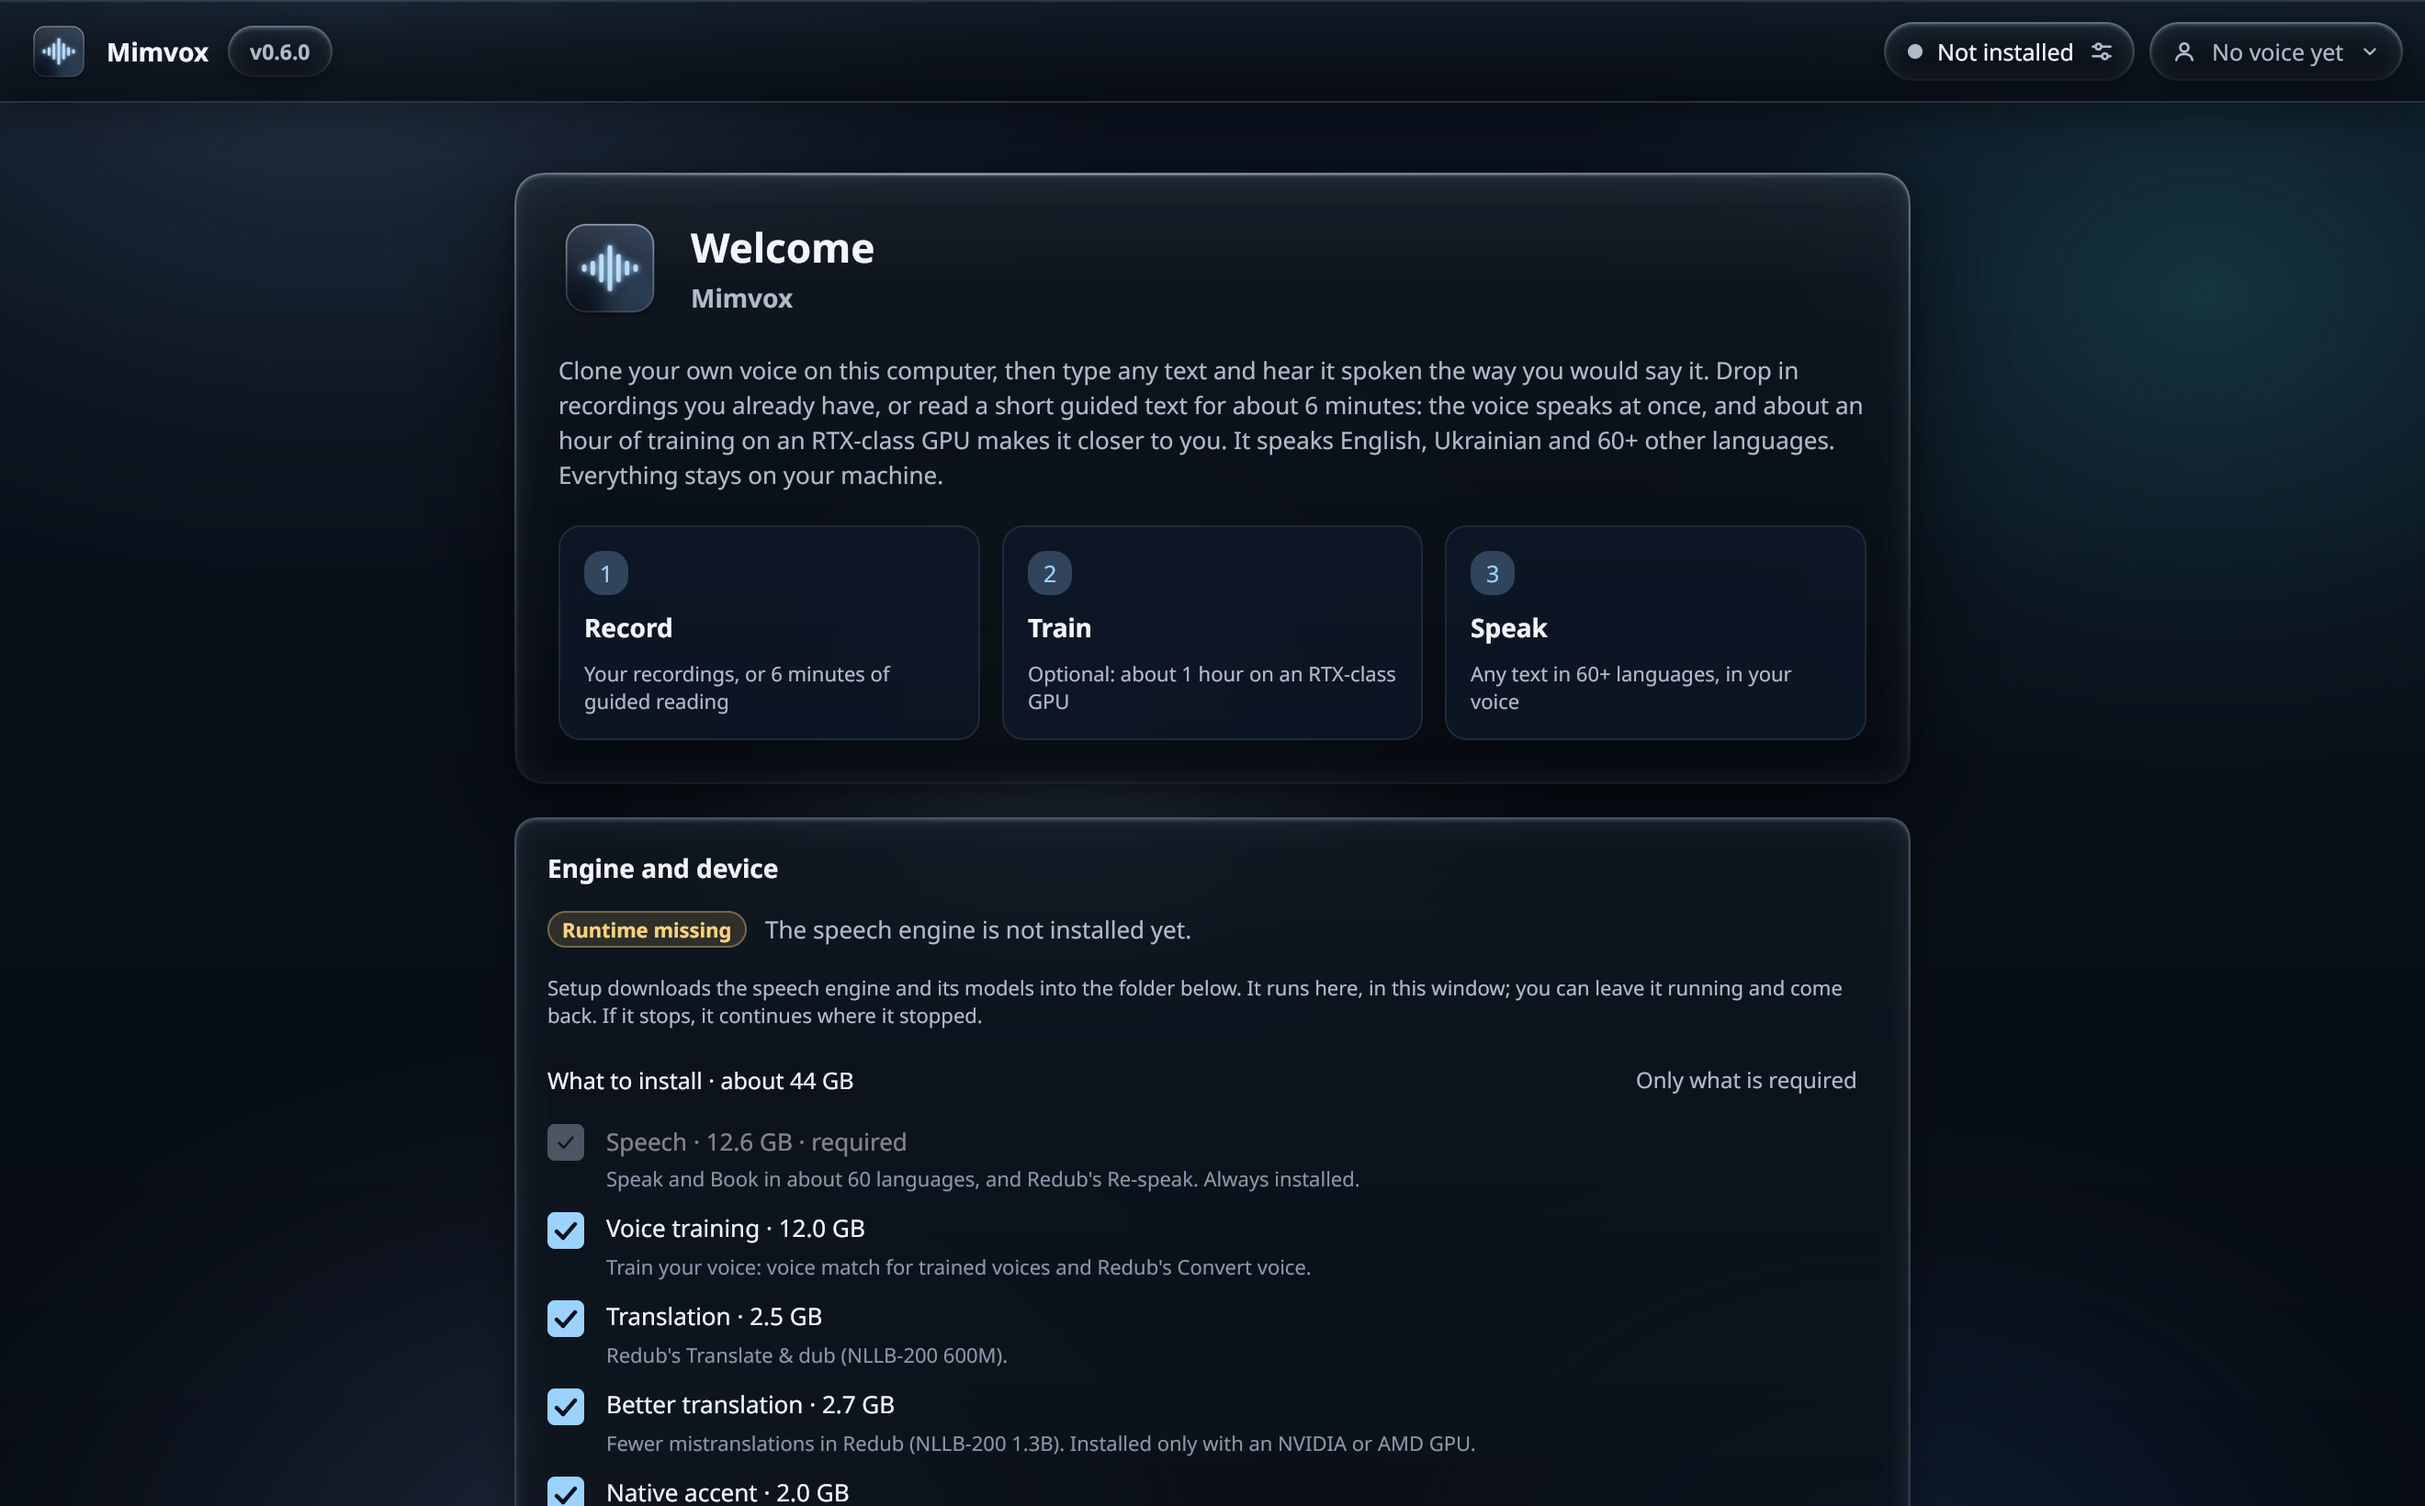
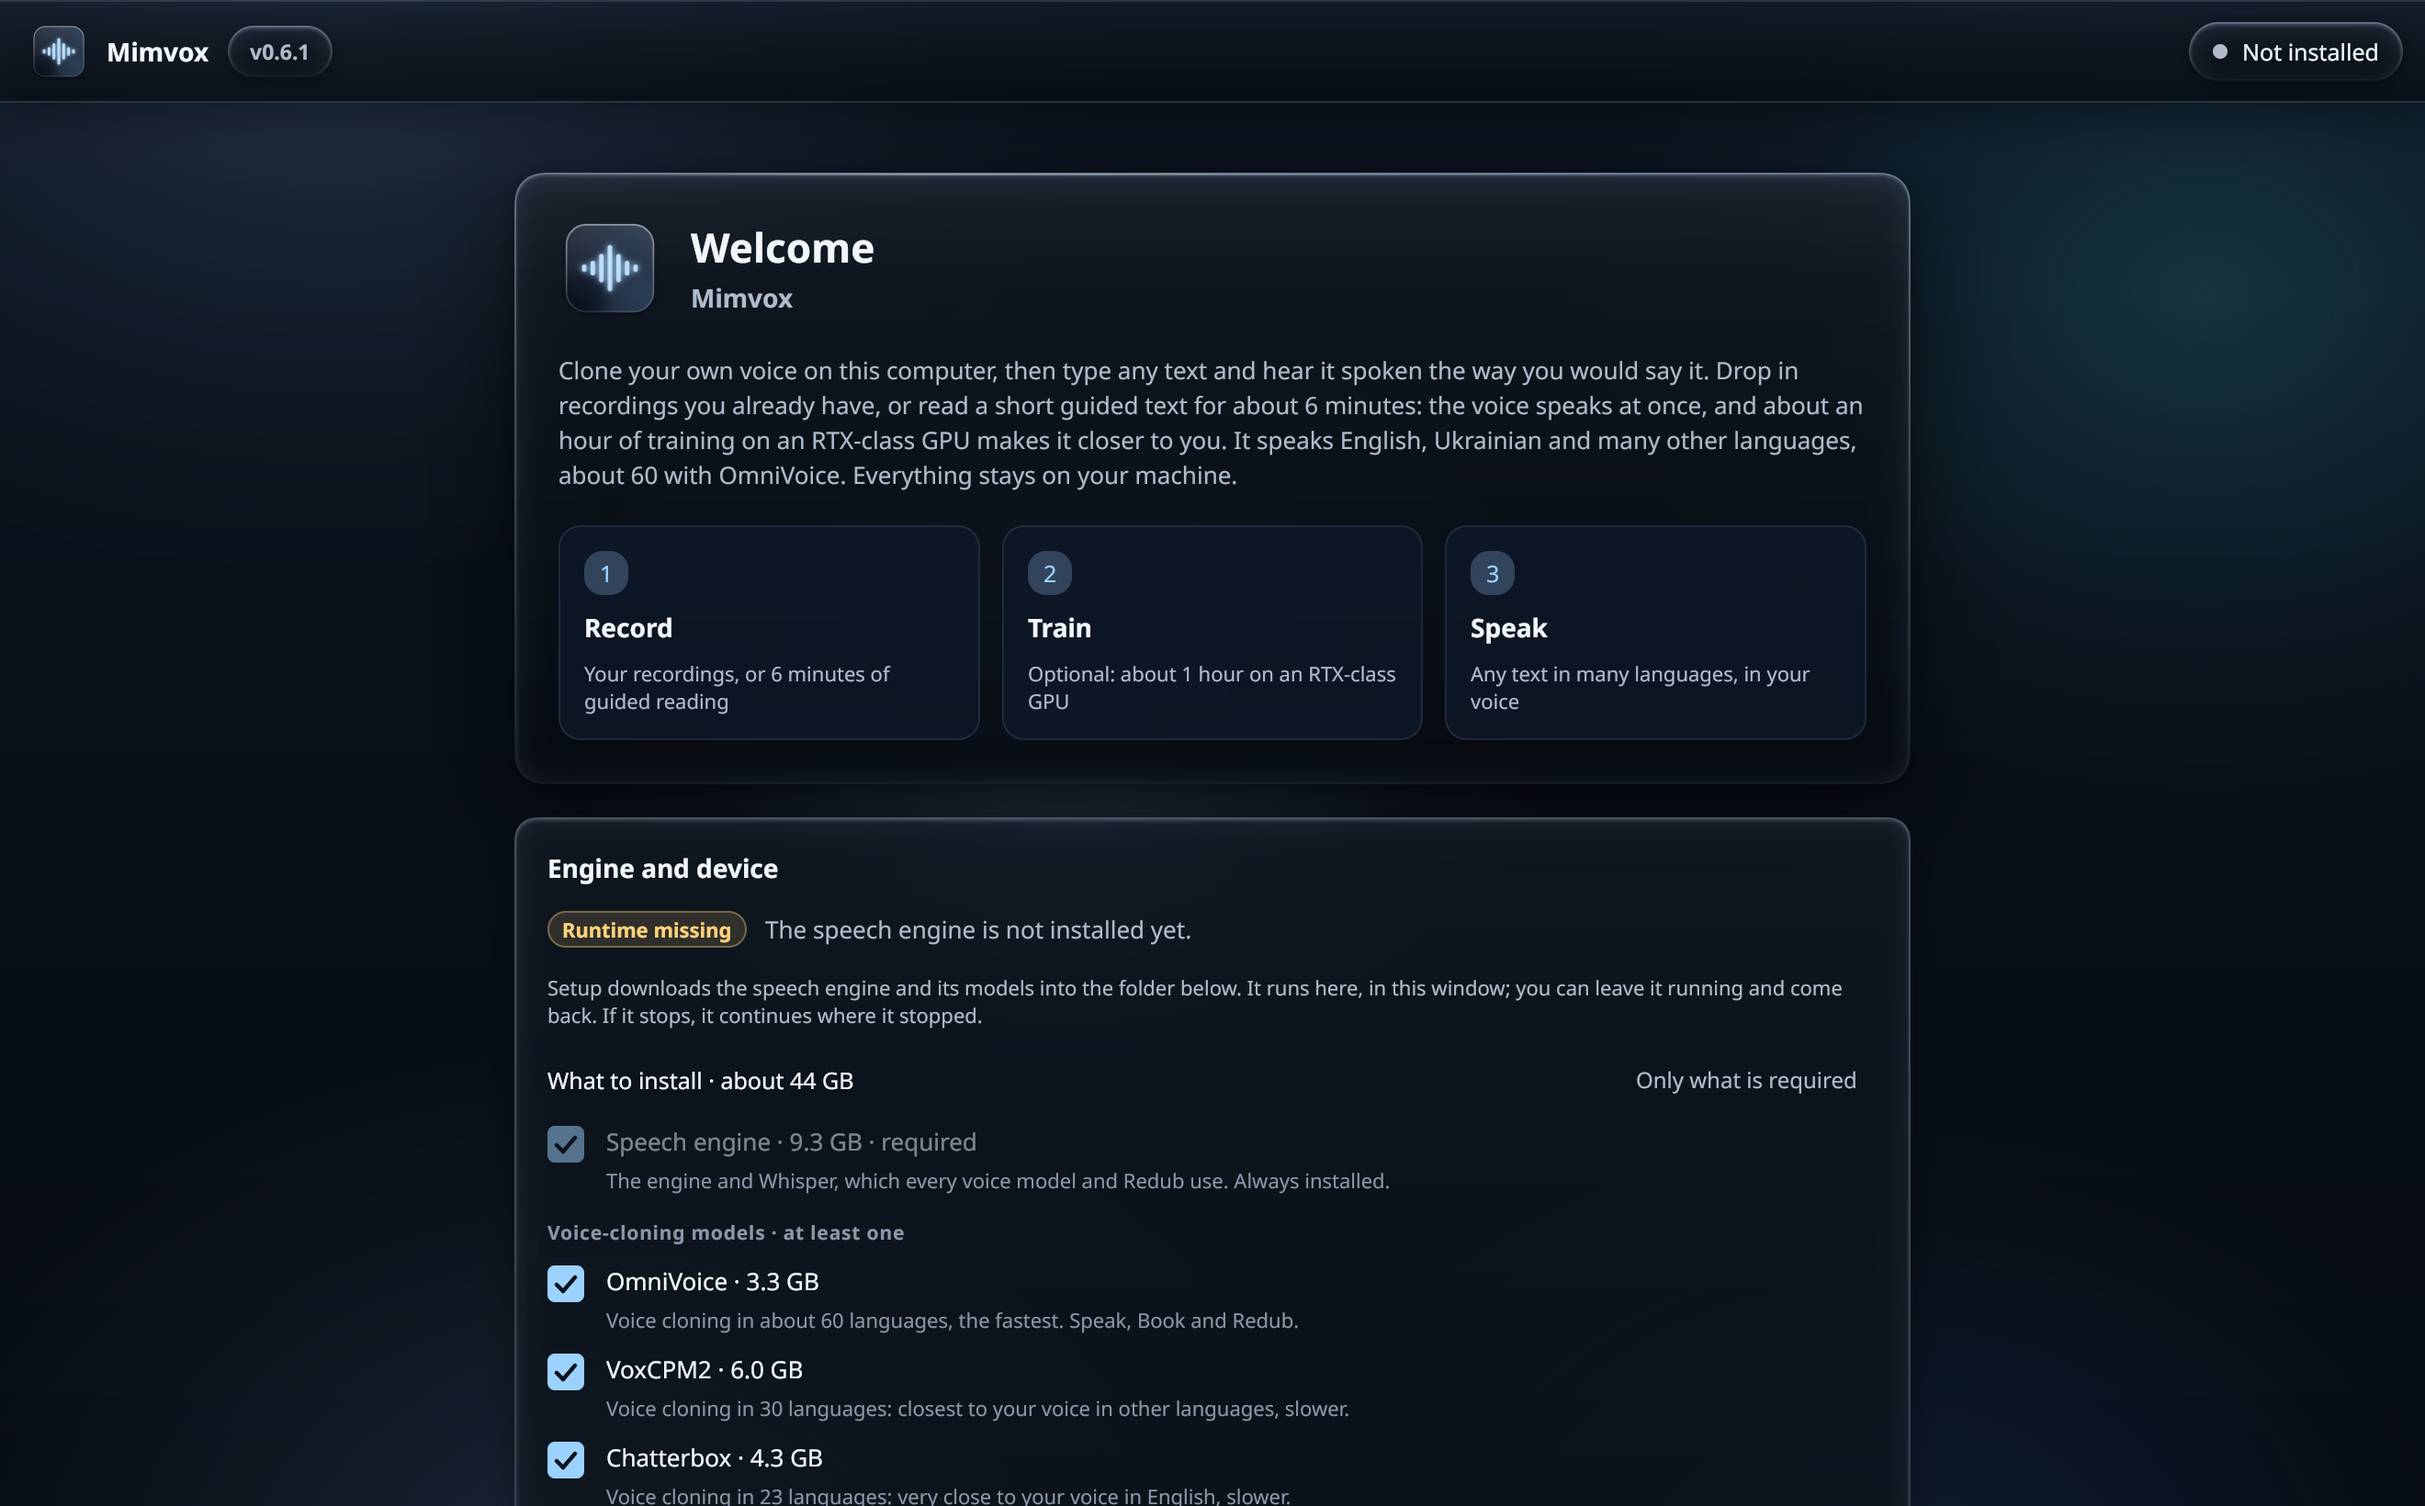
chore(release): 0.6.1 (#119)
Version 0.6.1.

- `crates/desktop` (`Cargo.toml`, `Packager.toml`), `crates/server`,
`crates/mcp`, `crates/api` and `crates/engine-client` say 0.6.1, and so
does `Cargo.lock`.
- Changelog: **Unreleased** becomes **0.6.1** (the release notes),
covering #112 to #118: no second title bar and rounded corners on Linux
(#112), the AppImage in the app list (#113), the choice of voice-cloning
models with OmniVoice optional and the 4 GB GPU fallback (#114), setup's
progress, Cancel and the first screen after setup, Linux microphone
names (#116), the locked checkbox (#117), the header and Settings while
setup runs (#118).
- The Updates window's sample notes get 0.6.1 (the made-up newer version
in the demo scenes becomes 0.6.2).
- All 27 screenshots and the demo GIF rendered again from the same
scenes (1320x820 at 2x; GIF 1100x683, the same eight scenes, 25 frames
each at 12 fps with 3-frame crossfades), so they show the `v0.6.1`
header, the new setup list and the start screen without the voice menu.
`usage-speak-models.png` now shows the open Model menu (scene
`speak_model_menu`).
- The runtime version stays 2: a 0.6.0 runtime keeps working (setup
keeps its OmniVoice; tested on the Debian laptop in #114).

After the merge, the tag `v0.6.1` on the merge commit starts the
installer build.

diff --git a/crates/desktop/src/ui/update.rs b/crates/desktop/src/ui/update.rs
@@ -860,6 +860,7 @@ fn action(s: &AppState, p: Palette, v: &str, kind: Kind) -> El {
 const NOTES_030: &str = "\n* **Romanian:** Speak, Book and Redub now offer Romanian. Record has Romanian reading texts too (Quick,\n  Standard and Pro), so a voice can be recorded and trained in Romanian from start to finish.\n* **A voice from recordings you already have:** Record's start page now begins with a card for audio or video\n  files of one person: no reading and no preset.\n* **Player:** no Stop button any more (pause, the knob and Close cover it).\n";
 const NOTES_020: &str = "\n* **Installers for every platform:** Windows x64 (setup .exe), Linux x64 (AppImage and .deb) and macOS on Apple\n  Silicon (.dmg), built by GitHub Actions for every release.\n* **Updates from inside the app:** a new version shows a banner under the header.\n* **Install only what you need:** the welcome screen lists the parts of the runtime with their sizes.\n";
 
+const NOTES_061: &str = "\n* **Choose the voice-cloning models:** OmniVoice is optional like VoxCPM2 and Chatterbox; at least one is\n  installed. With a model picked, Speak lists only its languages.\n* **4 GB GPUs:** a model that does not fit runs on the processor instead of failing.\n* **Linux:** no second title bar on GNOME, rounded corners, and the AppImage adds itself to the app list.\n";
 const NOTES_060: &str = "\n* **More voice-cloning models:** VoxCPM2 and Chatterbox, optional parts you choose per text in Speak and\n  Book.\n* **A newer speech engine** on Python 3.14 and PyTorch 2.11.\n* **Moving the data folder on Windows** no longer breaks the speech engine.\n";
 const NOTES_050: &str = "\n* **Local API and MCP:** Settings > API serves an OpenAI-compatible speech endpoint and every engine method,\n  with docs at /docs; mimvox-mcp lets Claude and other AI assistants use your voices.\n* **One status button** opens Settings: Modules, Data folder and API.\n* **Import an RVC model,** undo and redo in Speak, a steady player, and CPU speech that checks memory first.\n";
 const NOTES_043: &str = "\n* **Updates download on a slow connection:** they were cut off after 30 seconds.\n* **Settings survive a crash** while they are saved.\n* **Setup and engine fixes:** moving a partial runtime, the portable ffmpeg, very long input.\n";
@@ -873,10 +874,11 @@ fn demo(s: &mut AppState, newer: bool) {
     let current = env!("CARGO_PKG_VERSION");
     let mut list = Vec::new();
     if newer {
-        list.push(Release { version: "0.6.1".into(), date: "2026-12-08".into(), notes: "\n* **Updates window:** every version with its notes; install any of them, older ones too.\n* **Check for updates** whenever you like, from the version in the header.\n".into() });
+        list.push(Release { version: "0.6.2".into(), date: "2026-12-08".into(), notes: "\n* **Updates window:** every version with its notes; install any of them, older ones too.\n* **Check for updates** whenever you like, from the version in the header.\n".into() });
     }
-    list.push(Release { version: current.into(), date: "2026-11-26".into(), notes: NOTES_060.into() });
+    list.push(Release { version: current.into(), date: "2026-11-27".into(), notes: NOTES_061.into() });
     for (version, date, notes) in [
+        ("0.6.0", "2026-11-26", NOTES_060),
         ("0.5.0", "2026-11-20", NOTES_050),
         ("0.4.3", "2026-11-18", NOTES_043),
         ("0.4.2", "2026-11-16", NOTES_042),
@@ -902,9 +904,9 @@ pub fn scene_docs(s: &mut AppState) {
 
 pub fn scene_newer(s: &mut AppState) {
     demo(s, true);
-    s.update.found = Some(Found::preview("0.6.1", Some("\n* **Updates window:** every version with its notes.\n")));
-    s.update.selected = Some("0.6.1".into());
-    s.update.checked = Some((Tone::Accent, "Mimvox 0.6.1 is available.".into()));
+    s.update.found = Some(Found::preview("0.6.2", Some("\n* **Updates window:** every version with its notes.\n")));
+    s.update.selected = Some("0.6.2".into());
+    s.update.checked = Some((Tone::Accent, "Mimvox 0.6.2 is available.".into()));
 }
 
 pub fn scene_older(s: &mut AppState) {
@@ -914,14 +916,14 @@ pub fn scene_older(s: &mut AppState) {
 
 pub fn scene_downloading(s: &mut AppState) {
     demo(s, true);
-    s.update.found = Some(Found::preview("0.6.1", None));
+    s.update.found = Some(Found::preview("0.6.2", None));
     s.update.phase = Phase::Downloading { got: 96_468_992, total: Some(214_958_080) };
 }
 
 pub fn scene_waiting(s: &mut AppState) {
     super::speak::scene_idle(s);
     s.update.kind = Some(Kind::Auto);
-    s.update.found = Some(Found::preview("0.6.1", Some("\n* **Updates window:** every version with its notes.\n")));
+    s.update.found = Some(Found::preview("0.6.2", Some("\n* **Updates window:** every version with its notes.\n")));
 }
 
 pub fn scene_loading(s: &mut AppState) {

diff --git a/docs/usage.md b/docs/usage.md
@@ -739,7 +739,7 @@ typed is still there after a restart.
 
 The defaults are the validated settings; you do not need to change them.
 
-![The Model choice in the Style panel, with VoxCPM2 and Chatterbox installed](screenshots/usage-speak-models.png)
+![The Model menu in the Style panel, with OmniVoice, VoxCPM2 and Chatterbox installed](screenshots/usage-speak-models.png)
 
 ### Word stress (Ukrainian)
 

diff --git a/CHANGELOG.md b/CHANGELOG.md
@@ -1,6 +1,6 @@
 # Changelog
 
-## Unreleased
+## 0.6.1
 
 * **Linux:** the window no longer has a second, grey title bar above its own on GNOME (Wayland): it draws its own
   minimize, maximize and close buttons as on Windows, moves by its header, resizes by its edges and corners, and
